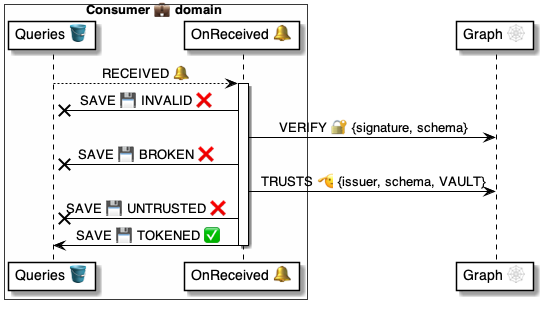
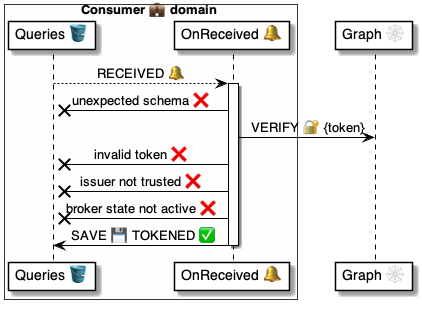
.

diff --git a/4 ⚙ Solution/41 🎭 Domain Roles/Consumers 💼/💼🪣 Consumer tables/Queries 🗄 table/🪣🧱 31 Received 🔔 event/💼 OnReceived 🔔 handler.md b/4 ⚙ Solution/41 🎭 Domain Roles/Consumers 💼/💼🪣 Consumer tables/Queries 🗄 table/🪣🧱 31 Received 🔔 event/💼 OnReceived 🔔 handler.md
@@ -16,51 +16,20 @@
 ```yaml
 📃 OnQueryReceived:
 
-# Validate the Token
-- ASSERT $Query.Token >> $valid:
-    AllOf: Starts, Issuer
-    Starts.IsFuture:
-    Expires.IsPast:
+# Validate the Schema
+- ASSERT $Query.Token:
+    Error: Unexpected schema
     Schema.IsIn: $Query.Schemas
 
-# Exit if invalid
-- IFNOT: $valid
-- THEN:
-    - SAVE $Query:
-        State: INVALID
-    - RETURN
-
 # Verify the Token signature and schema
-- TRY >> $error:
-    - VERIFY: $Query.Token
-
-# Exit if corrupted
-- IF: $error
-- THEN:
-    - SAVE $Query:
-        State: CORRUPTED
-    - RETURN
-
-# Check the trust
-- TRUSTS >> $trusted:
-    Trusted: $Query.Token.Issuer
-    Schema: $Query.Token.Schema
-    Role: VAULT
-
-# Exit if untrusted
-- IFNOT: $trusted
-- THEN:
-    - SAVE $Query:
-        State: UNTRUSTED
-    - RETURN
+- VERIFY: $Query.Token
 
 # Otherwise, progress
-- SAVE $Query:
-    State: TOKENED
+- RETURN: TOKENED
 ```
 
 Uses||
 |-|-
-| [Commands ⌘](<../../../../../35 💬 Chats/Scripts 📃/Command ⌘.md>) | [`ASSERT`](<../../../../../37 Scripts 📃/📃 Commands ⌘/⌘ for holders 🧠/ASSERT 🚦/🚦 ASSERT ⌘ cmd.md>) [`IFNOT`](<../../../../../37 Scripts 📃/📃 Commands ⌘/⌘ for control ▶/IFNOT ⤵/⤵ IFNOT ⌘ cmd.md>) [`RETURN`](<../../../../../37 Scripts 📃/📃 Commands ⌘/⌘ for control ▶/RETURN ⤴/⤴ RETURN ⌘ cmd.md>)  [`SAVE`](<../../../../../37 Scripts 📃/📃 Commands ⌘/⌘ for datasets 🪣/SAVE 💾/💾 SAVE ⌘ cmd.md>) [`TRUSTS`](<../../../../../37 Scripts 📃/📃 Commands ⌘/⌘ for messages 📨/TRUSTS 🫡/🫡 TRUSTS ⌘ cmd.md>) [`TRY`](<../../../../../37 Scripts 📃/📃 Commands ⌘/⌘ for control ▶/TRY 🧪/🧪 TRY ⌘ cmd.md>) [`VERIFY`](<../../../../../37 Scripts 📃/📃 Commands ⌘/⌘ for messages 📨/VERIFY 🔐/VERIFY ⌘/🔐 VERIFY ⌘ cmd.md>) 
+| [Commands ⌘](<../../../../../35 💬 Chats/Scripts 📃/Command ⌘.md>) | [`ASSERT`](<../../../../../37 Scripts 📃/📃 Commands ⌘/⌘ for holders 🧠/ASSERT 🚦/🚦 ASSERT ⌘ cmd.md>) [`RETURN`](<../../../../../37 Scripts 📃/📃 Commands ⌘/⌘ for control ▶/RETURN ⤴/⤴ RETURN ⌘ cmd.md>)   [`VERIFY`](<../../../../../37 Scripts 📃/📃 Commands ⌘/⌘ for messages 📨/VERIFY 🔐/VERIFY ⌘/🔐 VERIFY ⌘ cmd.md>) 
 |[{Functions} 🐍](<../../../../../35 💬 Chats/Scripts 📃/Function 🐍.md>) | [`.IsPast`](<../../../../../37 Scripts 📃/📃 Functions 🐍/🐍 System 🔩 functions/IsPast ⓕ.md>) [`.IsFuture`](<../../../../../37 Scripts 📃/📃 Functions 🐍/🐍 System 🔩 functions/IsFuture ⓕ.md>) [`.IsIn`](<../../../../../37 Scripts 📃/📃 Functions 🐍/🐍 System 🔩 functions/IsIn ⓕ.md>)
 | [Datasets 🪣](<../../../../../30 🧩 Data/Datasets 🪣/🪣 Dataset.md>) | [`Consumer.Queries`](<../🪣 Queries/💼 Consumer.Queries 🪣 table.md>)

diff --git a/4 ⚙ Solution/41 🎭 Domain Roles/Consumers 💼/💼🪣 Consumer tables/Queries 🗄 table/🪣🧱 22 Trusted 🔔 event/💼 OnTrusted 🔔 handler.md b/4 ⚙ Solution/41 🎭 Domain Roles/Consumers 💼/💼🪣 Consumer tables/Queries 🗄 table/🪣🧱 22 Trusted 🔔 event/💼 OnTrusted 🔔 handler.md
@@ -25,20 +25,13 @@
         Collect: $Query.Collect.Require
 
 # Verify the schema
-- TRY >> $error:
-    - VERIFY $data.valid:
-        Schema: $Query.Schema
+- VERIFY $data.valid:
+    Schema: $Query.Schema
 
 # Progress the state
-- IF $error:
-- THEN:
-    - SAVE $Query:
-        State: BROKEN
-        Data: $data
-- ELSE:
-    - SAVE $Query:
-        State: COLLECTED
-        Data: $data
+- SAVE $Query:
+    State: COLLECTED
+    Data: $data
 ```
 
 Uses||

diff --git a/4 ⚙ Solution/41 🎭 Domain Roles/Consumers 💼/💼🪣 Consumer tables/Queries 🗄 table/🪣🧱 21 Consume 🔔 event/💼 OnConsume 🔔 handler.md b/4 ⚙ Solution/41 🎭 Domain Roles/Consumers 💼/💼🪣 Consumer tables/Queries 🗄 table/🪣🧱 21 Consume 🔔 event/💼 OnConsume 🔔 handler.md
@@ -18,16 +18,14 @@
 📃 OnQueryConsume:
 
 # Verify if the Vault is trusted
-- TRUSTS >> $trusted:
+- TRUSTS:
+    Error: Untrusted vault
     Trusted: $Query.Vault
     Schema: $Query.Schema
     Role: VAULT
 
 # Progress the state
-- IF $trusted:
-    RETURN: TRUSTED
-- ELSE:
-    RETURN: UNTRUSTED
+- RETURN: TRUSTED
 ```
 
 Uses ||
